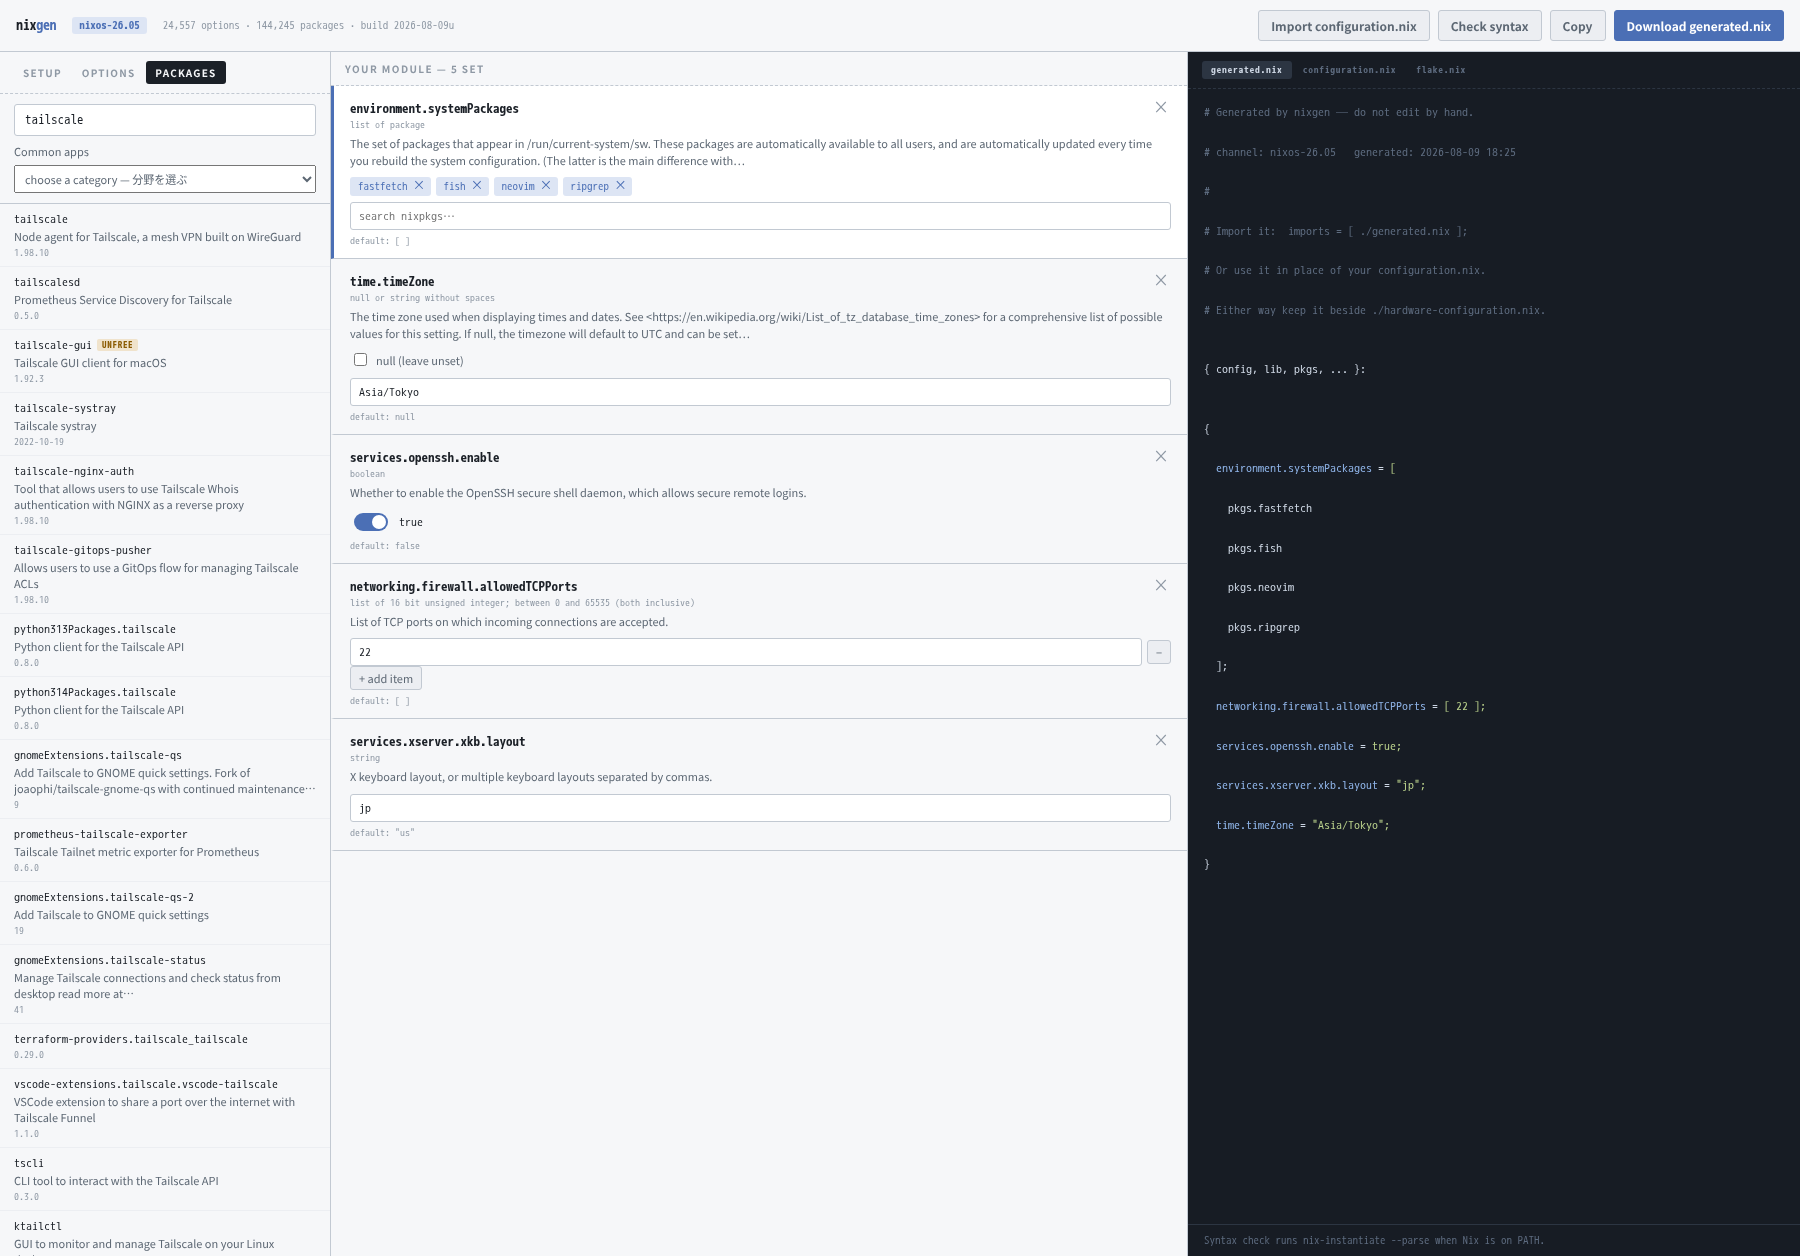
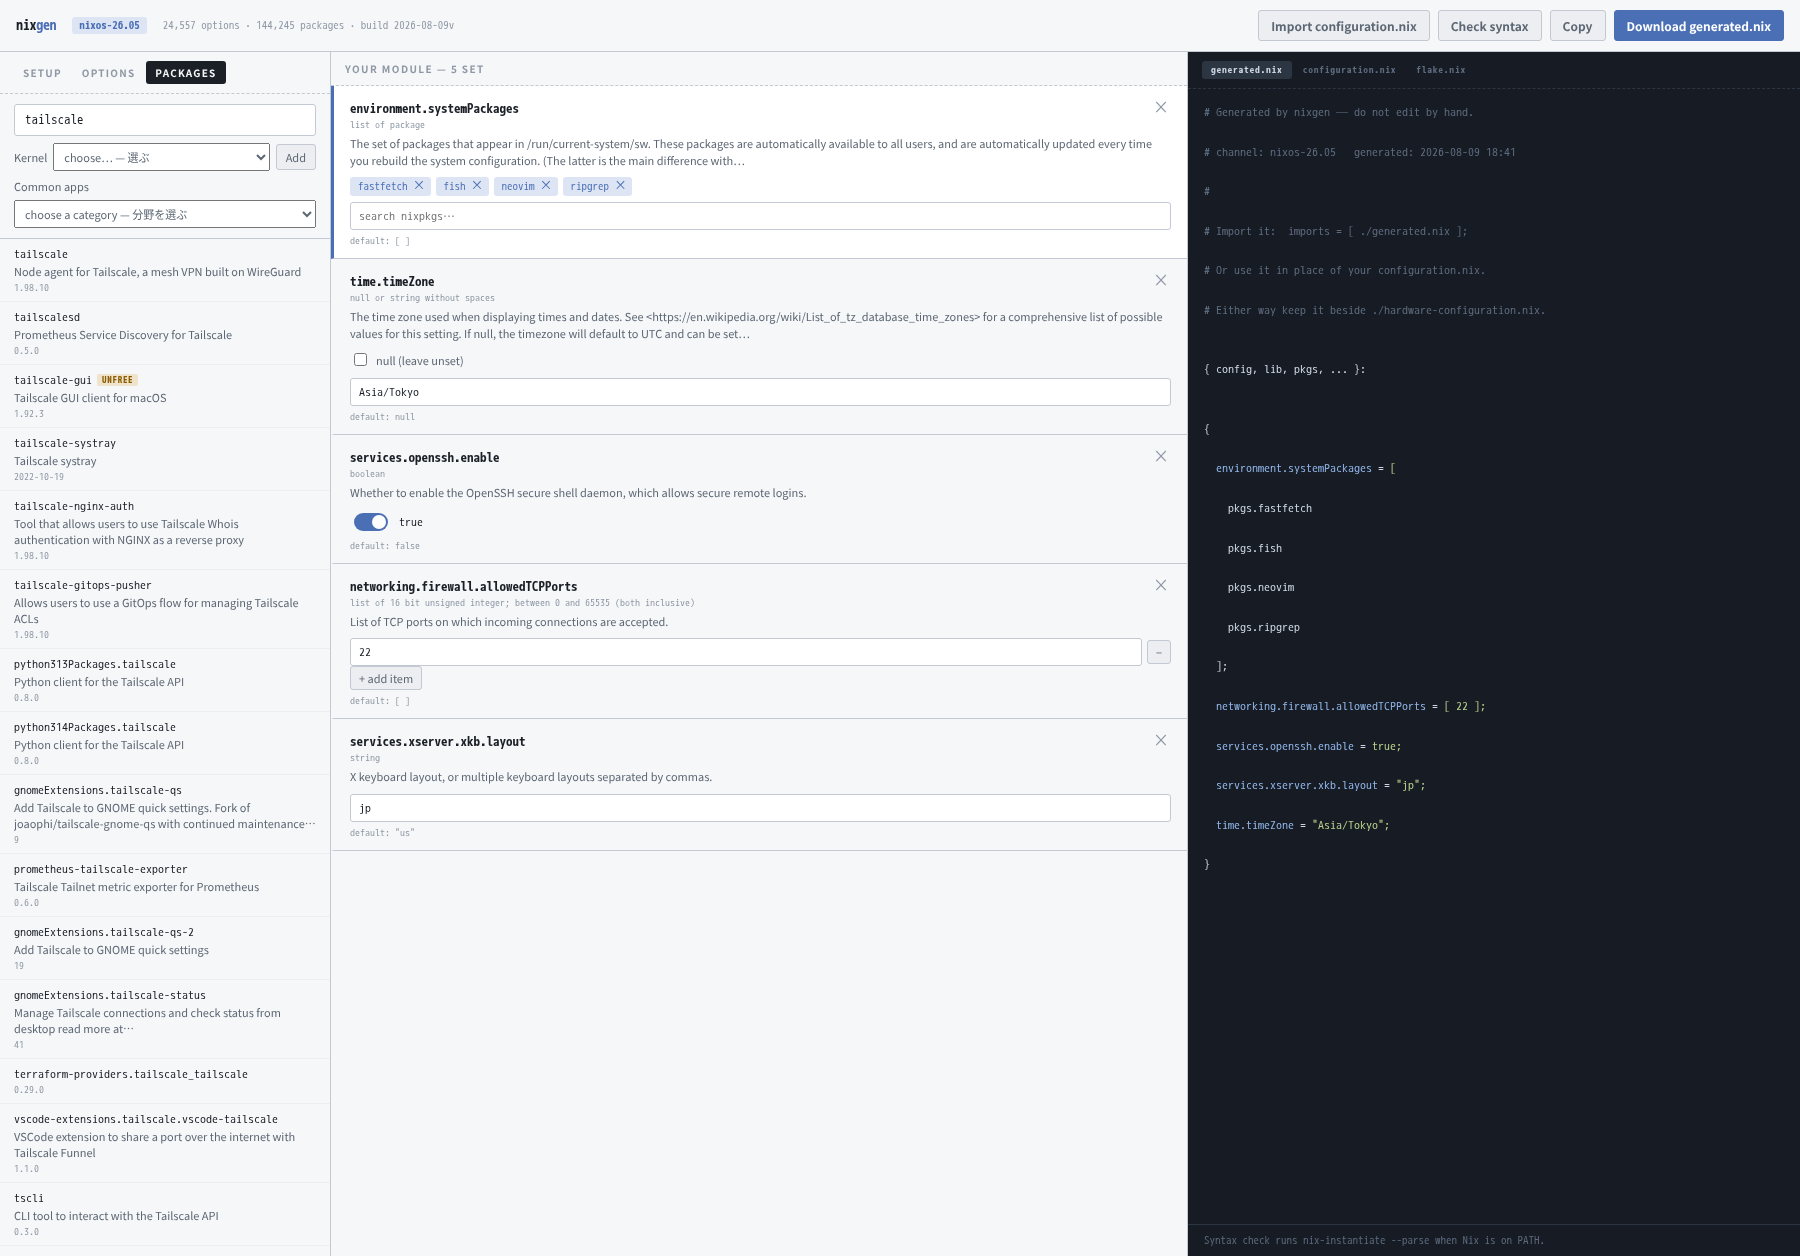
Add a kernel dropdown: standard, latest, LTS, Zen
boot.kernelPackages is a raw option, so what goes in is Nix source and it
arrives as a text box rather than a widget — the expression stays visible
and editable instead of being buried in a preset.

There is no linuxPackages_lts in nixpkgs. That was checked, not assumed,
so LTS is a list of series newest-first that takes the first the channel
still ships, and the status line names the version it picked so a stale
list can be seen rather than inferred.

All four were evaluated as real NixOS systems at the indexed revision:
four kernels, four different system derivations.

Changed region(s): [[0.0, 0.1242, 0.1556, 0.9936], [0.1244, 0.4347, 0.1556, 0.4968], [0.1556, 0.1242, 0.1867, 0.1553]]

diff --git a/build/static/app.js b/build/static/app.js
@@ -2,7 +2,7 @@
 
 /* Shown in the header. Bump it whenever this file changes, so "the fix did not
    work" can be told apart from "the old file is still being served". */
-const BUILD = '2026-08-09u';
+const BUILD = '2026-08-09v';
 
 const $  = (s, r = document) => r.querySelector(s);
 const $$ = (s, r = document) => [...r.querySelectorAll(s)];
@@ -131,8 +131,9 @@ function setStateVersion(release, channel) {
   // prevent. `translate="no"` says so and this makes it stick, because not
   // every browser honours the attribute. #s-release is filled in later and
   // guards its own options as it builds them.
-  $$('#s-desktop option, #s-lang option, #s-gpu option, #s-apps option, ' +
-     '#s-system option, #s-pin option, #s-bootloader option').forEach(keep);
+  $$('#s-desktop option, #s-lang option, #s-gpu option, #s-kernel option, ' +
+     '#s-apps option, #s-system option, #s-pin option, ' +
+     '#s-bootloader option').forEach(keep);
   renderEditor();
   await loadReleases();
   await loadStarter();
@@ -817,6 +818,71 @@ async function addGpu(key) {
 $('#btn-gpu').addEventListener('click', () => {
   const key = $('#s-gpu').value;
   if (key) addGpu(key);
+});
+
+/* The kernel. `boot.kernelPackages` is a raw option — its value is Nix source
+   rather than anything the form can hold — so this writes the expression and
+   leaves it in a text box you can edit.
+
+   Each name is looked up in the package index before it is written, the way
+   the app categories are, because a kernel this channel does not have would
+   otherwise be a line that fails at `nixos-rebuild` rather than here.
+
+   LTS is a list of series, newest first, and takes the first the channel has:
+   there is no `linuxPackages_lts` in nixpkgs — that was checked, not assumed —
+   and the LTS series are kernel.org's designation, which nothing in the index
+   records. `pkgs.linuxKernel.packages.linux_6_12` is the form the option's own
+   example uses. When kernel.org names a new LTS, it goes on the front of this
+   list; until then the newest one nixpkgs still ships is what comes out, and
+   the status line says which version that was so a stale list is visible. */
+const KERNELS = {
+  standard: { label: 'Standard', try: [
+    { probe: 'linux', expr: 'pkgs.linuxPackages' } ] },
+  latest: { label: 'Latest', try: [
+    { probe: 'linux_latest', expr: 'pkgs.linuxPackages_latest' } ] },
+  lts: { label: 'LTS', try: ['6_12', '6_6', '6_1', '5_15', '5_10'].map(s => (
+    { probe: `linuxKernel.kernels.linux_${s}`,
+      expr: `pkgs.linuxKernel.packages.linux_${s}` })) },
+  zen: { label: 'Zen', try: [
+    { probe: 'linux_zen', expr: 'pkgs.linuxPackages_zen' } ] },
+};
+
+async function addKernel(key) {
+  const k = KERNELS[key];
+  if (!k) return;
+  const url = '/api/packages?attrs=' +
+    encodeURIComponent(k.try.map(c => c.probe).join(','));
+  const { results } = await fetch(url).then(r => r.json());
+  const have = new Map((results || []).map(r => [r.attr, r.version]));
+  const pick = k.try.find(c => have.has(c.probe));
+  if (!pick) {
+    setStatus(`${k.label}: this channel has no ${k.try[0].probe}. ` +
+              `Nothing was added.`, 'bad');
+    return;
+  }
+  const used = await addWithValue(['boot.kernelPackages'], pick.expr);
+  if (!used) {
+    setStatus(`This release has no boot.kernelPackages. Nothing was added.`, 'bad');
+    return;
+  }
+  renderEditor();
+  pushRender();
+  // Said for the two that move: an out-of-tree module has to be built against
+  // whatever kernel is running, and the NVIDIA one is regularly a few weeks
+  // behind a brand-new release. Said as `ok` rather than `todo` — doRender
+  // clears a todo status when it has no notes of its own, and the render this
+  // function just asked for would wipe the message on its way out.
+  const tail = key === 'latest' || key === 'zen'
+    ? ' Out-of-tree modules — the NVIDIA driver most of all — can lag a new ' +
+      'kernel by weeks. Check with dry-build.'
+    : '';
+  setStatus(`${k.label}: boot.kernelPackages = ${pick.expr} — ` +
+            `linux ${have.get(pick.probe)}.${tail}`, 'ok');
+}
+
+$('#btn-kernel').addEventListener('click', () => {
+  const key = $('#s-kernel').value;
+  if (key) addKernel(key);
 });
 
 /* A few representative packages per area, for when you know the kind of thing

diff --git a/build/static/index.html b/build/static/index.html
@@ -81,6 +81,21 @@
           </select>
           <button class="mini" id="btn-gpu">Add</button>
         </div>
+        <!-- boot.kernelPackages is a raw option: what goes in is Nix source,
+             not a value the form can hold. These four are the ones people ask
+             for by name, and each is looked up in the package index before it
+             is written, so a channel that does not have one says so. -->
+        <div class="presetline" id="kernelline">
+          <span>Kernel</span>
+          <select id="s-kernel" class="notranslate" translate="no">
+            <option value="">choose… — 選ぶ</option>
+            <option value="standard">standard — 標準</option>
+            <option value="latest">latest — 最新</option>
+            <option value="lts">LTS — 長期サポート</option>
+            <option value="zen">Zen</option>
+          </select>
+          <button class="mini" id="btn-kernel">Add</button>
+        </div>
         <!-- Picking a category fills the results list, so what happens next is
              the same click as any search hit. Nothing is added on your behalf. -->
         <div class="presetline" id="appsline">

diff --git a/CHANGELOG.md b/CHANGELOG.md
@@ -9,6 +9,19 @@ option counts.
 
 ## English
 
+### build 2026-08-09v
+
+- **A Kernel dropdown under Options**: standard, latest, LTS or Zen. It writes
+  `boot.kernelPackages`, a raw option, so the expression lands in a box you can
+  edit rather than being hidden in a preset.
+- **The name is looked up before it is written**, and the status line says
+  which version it found — `LTS` reports `linux 6.12.102` rather than leaving
+  the series to guesswork. **nixpkgs has no `linuxPackages_lts`**; LTS is a
+  list of series, newest first, and the first one the channel still ships is
+  what comes out.
+- All four were evaluated as actual NixOS systems at the indexed revision, not
+  just parsed: four different kernels, four different system derivations.
+
 ### build 2026-08-09u
 
 - **"How this works" is in both languages**: the English five steps, then the
@@ -352,6 +365,12 @@ three of these six showed up in only one of the two.
 ---
 
 ## 日本語
+
+### build 2026-08-09v
+
+- **Options タブに Kernel のプルダウンを追加しました。** 標準・最新・LTS・Zen から選べます。設定するのは `boot.kernelPackages` です。これは raw なオプションなので、**式は編集できる入力欄として module に入ります。** プリセットの中に隠れることはありません。
+- **書き込む前に名前を索引で確認します。** ステータス欄には見つかったバージョンが出るので、LTS を選べば `linux 6.12.102` と表示され、**どの系列かを推測せずに済みます。** なお **nixpkgs に `linuxPackages_lts` はありません**。LTS は新しい順の系列一覧で、そのチャンネルが今も持っている最初のものが採用されます。
+- 4種類すべて、構文解析だけでなく**索引と同じリビジョンで実際の NixOS システムとして評価**しました。4つの異なるカーネル、4つの異なるシステム派生になることを確認しています。
 
 ### build 2026-08-09u
 

diff --git a/CLAUDE.md b/CLAUDE.md
@@ -236,6 +236,16 @@ at `nixos-rebuild`, which is the least helpful place for it to surface.
   have is absent instead of broken: `kdenlive` is `kdePackages.kdenlive`, `0ad`
   is `zeroad`, and `superTuxKart` became `supertuxkart` between 25.11 and
   26.05 — both spellings are listed and only the real one comes back.
+- **There is no `linuxPackages_lts` in nixpkgs, and the kernel preset's LTS is
+  a list of series.** That was checked against the tree, not assumed: the
+  top-level attributes are `linuxPackages`, `_latest`, `_zen` and one per
+  series. Which series are LTS is kernel.org's designation and nothing in the
+  index records it, so `KERNELS.lts` lists them newest first and takes the
+  first the channel still ships, the way `DESKTOPS` does with paths. **When
+  kernel.org names a new LTS it goes on the front of that list**; until then
+  the status line naming the version it picked is what makes a stale list
+  visible. `boot.kernelPackages` is a `raw value`, so what is written is Nix
+  source and it arrives in a text box rather than a widget.
 - **Steam is in the list, with a note rather than a silence.** It runs from the
   package, but `programs.steam.enable` is what puts the 32-bit graphics drivers
   in place and can open the remote-play ports. It was left out at first, which

diff --git a/README.md b/README.md
@@ -298,6 +298,24 @@ Intel.
 **The NVIDIA driver is unfree.** Picking it says so and keeps saying so — set
 `nixpkgs.config.allowUnfree = true;` or the build refuses.
 
+### Picking a kernel
+
+**Options** has a **Kernel** dropdown: standard, latest, LTS or Zen. It writes
+`boot.kernelPackages`, which is a raw option — its value is a Nix expression
+rather than anything a form can hold — so what lands in the module is the
+expression, in a box you can edit.
+
+Each name is looked up in the package index before it is written, and the
+status line names the version it found, so `LTS` says `linux 6.12.102` rather
+than leaving you to guess which series that was. There is no
+`linuxPackages_lts` in nixpkgs; LTS is a list of series, newest first, and the
+first one this channel still ships is what comes out.
+
+Standard is what you get without the setting. **Latest and Zen move**, and an
+out-of-tree module has to be built against whatever kernel is running — the
+NVIDIA driver is regularly a few weeks behind a brand-new release. Run
+`nixos-rebuild dry-build` before you switch.
+
 ### Picking a language
 
 Next to the desktop dropdown under **Options** is a **Language** one: English,
